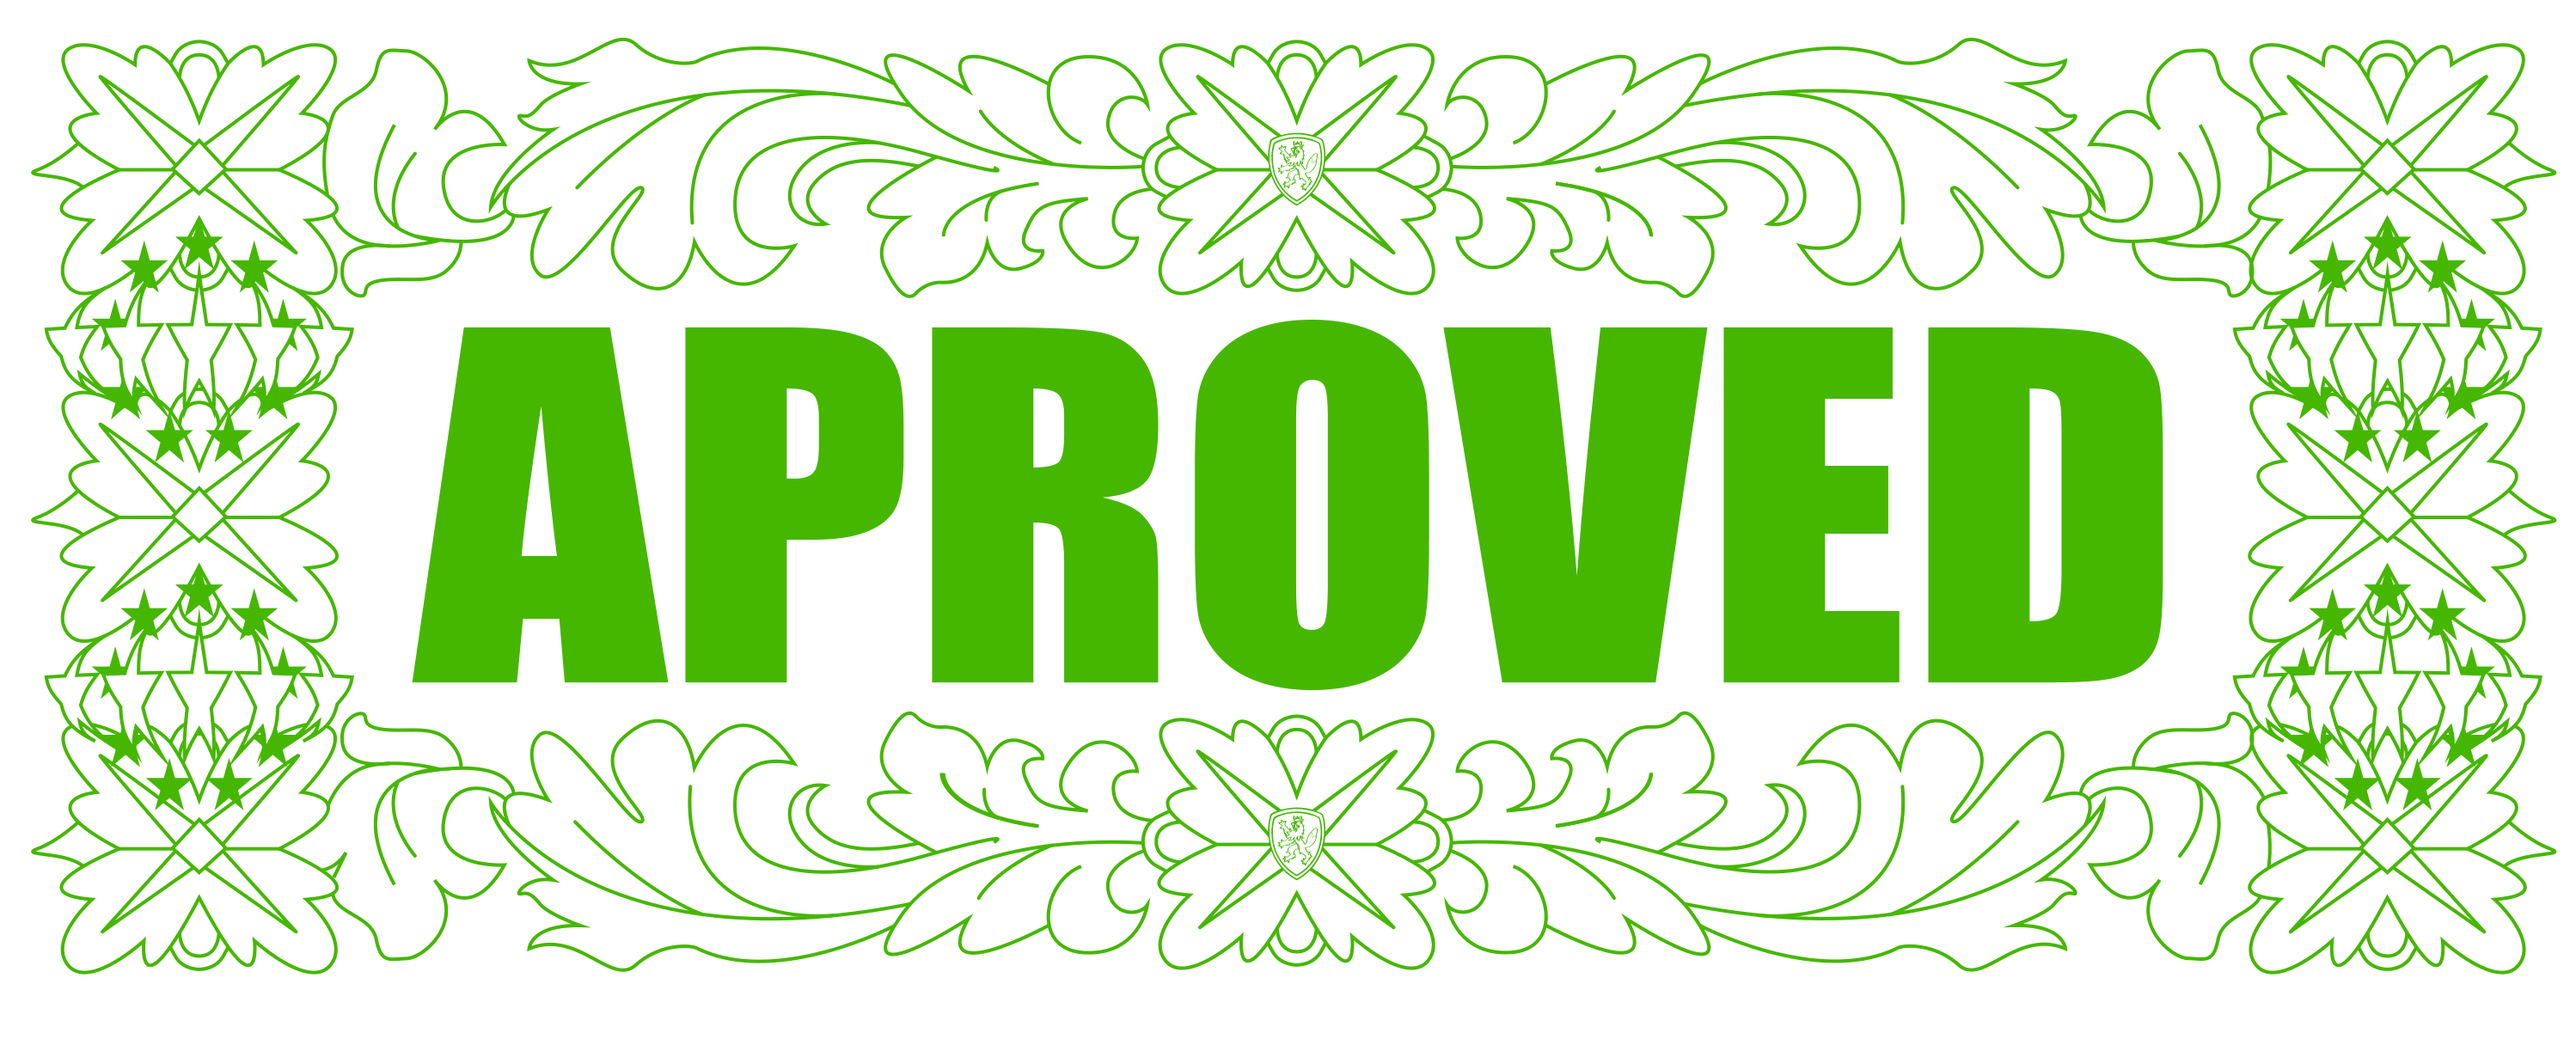
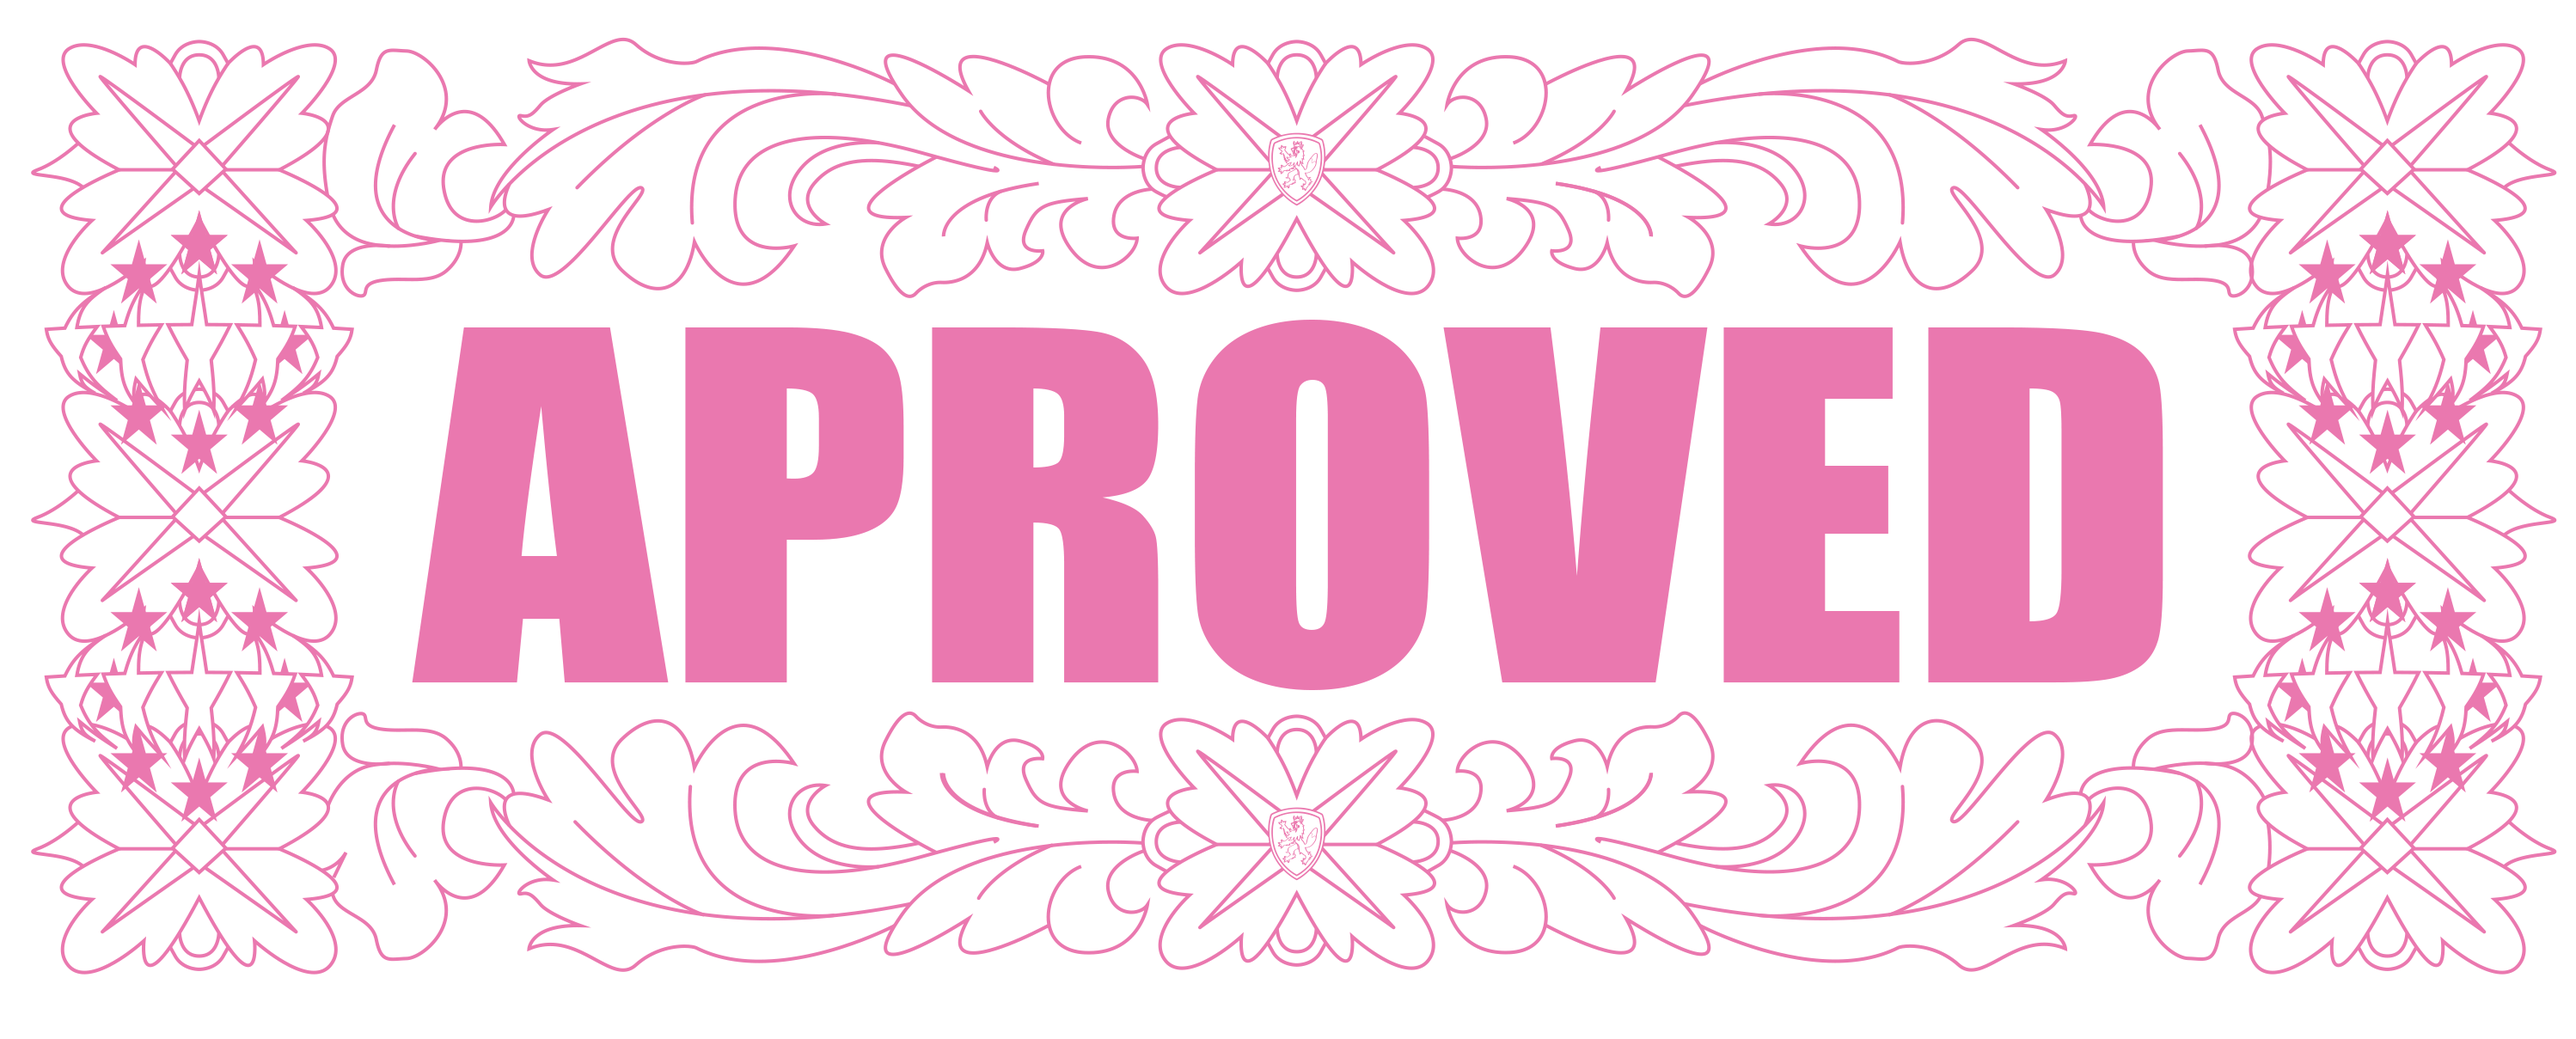
A

diff --git a/src/components/HomeHowItWorks.tsx b/src/components/HomeHowItWorks.tsx
@@ -60,36 +60,6 @@ function Arrow({
   );
 }
 
-/** Grille 2×2 compacte (mobile, cycles côte à côte). */
-function MiniCycleGrid({
-  cards,
-  order,
-}: {
-  cards: [CardDef, CardDef, CardDef, CardDef];
-  order: [number, number, number, number];
-}) {
-  const ordered = order.map((i) => cards[i]!);
-  return (
-    <div className="mt-1 grid grid-cols-2 gap-1">
-      {ordered.map((c) => (
-        <div
-          key={`${c.step}-${c.title}`}
-          className={`rounded-[6px] border border-[#F0F0F0] bg-[#FAFAFA] p-1.5 ${
-            c.highlight ? "ring-1 ring-[#F472B6]" : ""
-          }`}
-        >
-          <p className="text-[10px] font-medium uppercase tracking-wide text-[#6B6B6B]">
-            {c.step}
-          </p>
-          <p className="mt-0.5 line-clamp-3 text-[11px] font-semibold leading-tight text-[#0A0A0A]">
-            {c.title}
-          </p>
-        </div>
-      ))}
-    </div>
-  );
-}
-
 function FlowCycleGrid({
   cards,
   mobileOrder,
@@ -107,7 +77,7 @@ function FlowCycleGrid({
           <div key={`${c.step}-${c.title}-${idx}`}>
             <CycleCard {...c} />
             {idx < list.length - 1 ? (
-              <div className="flex justify-center py-1">
+              <div className="flex justify-center py-0.5">
                 <Arrow>↓</Arrow>
               </div>
             ) : null}
@@ -115,7 +85,7 @@ function FlowCycleGrid({
         ))}
       </div>
 
-      <div className="mx-auto hidden w-full max-w-md md:grid md:grid-cols-[minmax(0,1fr)_2rem_minmax(0,1fr)] md:grid-rows-3 md:gap-x-0 md:gap-y-2 lg:max-w-none">
+      <div className="mx-auto hidden w-full max-w-md md:grid md:grid-cols-[minmax(0,1fr)_2rem_minmax(0,1fr)] md:grid-rows-3 md:gap-x-0 md:gap-y-1.5 lg:max-w-none">
         <CycleCard {...tl} />
         <Arrow className="self-center justify-center">→</Arrow>
         <CycleCard {...tr} />
@@ -163,7 +133,7 @@ function ColumnTitle({
 
 function DividerLabel({ children }: { children: ReactNode }) {
   return (
-    <div className={`relative ${shell} py-2`}>
+    <div className={`relative ${shell} py-1`}>
       <div
         className="absolute inset-x-0 top-1/2 h-px -translate-y-1/2 bg-[#F0F0F0]"
         aria-hidden
@@ -205,27 +175,26 @@ export function HomeHowItWorks() {
 
   return (
     <section
-      className="overflow-hidden rounded-[8px] border border-[#F0F0F0] bg-white px-4 py-6 sm:px-8 sm:py-12"
+      className="overflow-hidden rounded-[8px] border border-[#F0F0F0] bg-white px-4 py-5 sm:px-6 sm:py-8 md:py-10"
       aria-labelledby="rs-home-how-parcours rs-home-how-cycle"
     >
-      <p className="mb-2 text-center text-[13px] font-medium uppercase tracking-[0.12em] text-[#6B6B6B] md:hidden">
+      <p className="mb-3 text-center text-[13px] font-medium uppercase tracking-[0.12em] text-[#6B6B6B] md:hidden">
         Comment ça marche
       </p>
 
-      <div className="mx-auto max-h-[340px] min-h-0 overflow-y-auto md:max-h-none md:overflow-visible">
-        <div className={`${shell} grid grid-cols-2 gap-2 md:hidden`}>
-          <div className="min-w-0">
-            <p className="text-[11px] font-semibold text-[#0A0A0A]">Ton parcours</p>
-            <MiniCycleGrid cards={parcoursCards} order={[0, 1, 3, 2]} />
-          </div>
-          <div className="min-w-0">
-            <p className="text-[11px] font-semibold text-[#0A0A0A]">Le cycle RS</p>
-            <MiniCycleGrid cards={cycleCards} order={[0, 1, 2, 3]} />
-          </div>
+      <div className={`${shell} flex flex-col gap-5 md:hidden`}>
+        <div>
+          <p className="mb-2 text-sm font-semibold text-[#0A0A0A]">Ton parcours</p>
+          <FlowCycleGrid cards={parcoursCards} mobileOrder={[0, 1, 3, 2]} />
         </div>
+        <div className="border-t border-[#F0F0F0] pt-5">
+          <p className="mb-2 text-sm font-semibold text-[#0A0A0A]">Le cycle RS</p>
+          <FlowCycleGrid cards={cycleCards} mobileOrder={[0, 1, 2, 3]} />
+        </div>
+      </div>
 
-        <div className={`${shell} hidden md:flex md:flex-col md:gap-10 lg:flex-row lg:items-start`}>
-          <div className="min-w-0 flex-1 space-y-6 lg:space-y-8">
+      <div className={`${shell} mt-0 hidden md:flex md:flex-col md:gap-5 lg:mt-0 lg:flex-row lg:items-start lg:gap-8`}>
+          <div className="min-w-0 flex-1 space-y-4 lg:space-y-5">
             <ColumnTitle
               kicker="Comment ça marche"
               title="Ton parcours"
@@ -256,7 +225,7 @@ export function HomeHowItWorks() {
             aria-hidden
           />
 
-          <div className="min-w-0 flex-1 space-y-6 lg:space-y-8">
+          <div className="min-w-0 flex-1 space-y-4 lg:space-y-5">
             <div className="lg:hidden">
               <DividerLabel>Le recrutement</DividerLabel>
             </div>
@@ -265,13 +234,12 @@ export function HomeHowItWorks() {
             <FlowCycleGrid cards={cycleCards} mobileOrder={[0, 1, 2, 3]} />
           </div>
         </div>
-      </div>
 
-      <div className={`${shell} mt-6 hidden lg:block`}>
+      <div className={`${shell} mt-4 hidden lg:block`}>
         <DividerLabel>Le recrutement</DividerLabel>
       </div>
 
-      <div className={`${shell} mt-6 md:mt-8 lg:mt-10`}>
+      <div className={`${shell} mt-5 md:mt-6 lg:mt-7`}>
         <a
           href="/depot"
           className="rs-btn rs-btn--primary flex w-full flex-col items-center gap-0.5 rounded-[6px] py-4 text-center no-underline hover:no-underline sm:py-5"

diff --git a/app/rs-shopify-header-mobile.css b/app/rs-shopify-header-mobile.css
@@ -86,13 +86,13 @@
     align-items: center;
     justify-content: space-between;
     gap: 10px;
-    min-height: 56px;
-    height: 56px;
-    max-height: 56px;
+    min-height: 64px;
+    height: auto;
+    max-height: none;
     box-sizing: border-box;
     width: 100%;
     margin: 0;
-    padding: 0 0;
+    padding: 6px 0;
     border: none;
     border-bottom: 1px solid #f0f0f0;
     background: #ffffff;
@@ -110,10 +110,10 @@
 
   .rs-header-mobile-bar__logo {
     display: block;
-    width: 36px;
-    height: 36px;
-    max-width: 36px;
-    max-height: 36px;
+    width: 52px;
+    height: 52px;
+    max-width: 52px;
+    max-height: 52px;
     object-fit: contain;
     flex-shrink: 0;
   }
@@ -140,35 +140,53 @@
     height: 44px;
     margin: 0;
     padding: 0;
-    border: none;
-    background: transparent;
+    border: 1px solid #f0f0f0;
+    background: #fafafa;
     cursor: pointer;
     color: #0a0a0a;
-    border-radius: 8px;
+    border-radius: 10px;
+    box-shadow: 0 1px 0 rgba(255, 255, 255, 0.9) inset;
+    transition:
+      background 0.15s ease,
+      border-color 0.15s ease,
+      box-shadow 0.15s ease;
+  }
+
+  .rs-header-mobile-bar__menu-btn:hover {
+    background: #ffffff;
+    border-color: #e5e5e5;
+    box-shadow: 0 1px 2px rgba(10, 10, 10, 0.06);
+  }
+
+  .rs-header-mobile-bar__menu-btn:active {
+    background: #f5f5f5;
+    transform: scale(0.98);
   }
 
   .rs-header-mobile-bar__menu-btn:focus-visible {
-    outline: 2px solid #0a0a0a;
+    outline: 2px solid #f472b6;
     outline-offset: 2px;
   }
 
   .rs-header-mobile-bar__burger {
     display: flex;
     flex-direction: column;
-    justify-content: space-between;
-    align-items: flex-start;
-    width: 24px;
-    height: 24px;
+    justify-content: center;
+    align-items: center;
+    gap: 5px;
+    width: 22px;
+    height: 22px;
     flex-shrink: 0;
   }
 
   .rs-header-mobile-bar__burger-line {
     display: block;
-    width: 24px;
+    width: 18px;
     height: 2px;
     background: #0a0a0a;
-    border-radius: 0;
+    border-radius: 999px;
     flex-shrink: 0;
+    opacity: 0.92;
   }
 
   .rs-header-drawer[hidden] {

diff --git a/app/profils/page.tsx b/app/profils/page.tsx
@@ -158,7 +158,6 @@ export default function ProfilsPage() {
           {ranked.map((p) => {
             const handle = p.handle.replace(/^@/, "");
             const rank = rankById.get(p.id) ?? 0;
-            const likes = Number(p.likes ?? 0);
             return (
               <li key={p.id} className="min-w-0">
                 <article className="flex h-full min-w-0 flex-col rounded-[8px] border border-[#F0F0F0] bg-[#FAFAFA] p-4">
@@ -174,8 +173,7 @@ export default function ProfilsPage() {
                     {p.city ?? "—"}
                   </p>
                   <p className="mt-2 text-sm font-medium text-[#0A0A0A]">
-                    <span className="font-bold text-[#F472B6]">{likes}</span>{" "}
-                    likes · rang{" "}
+                    Rang{" "}
                     <span className="font-bold text-[#F472B6]">#{rank}</span>
                   </p>
                   {p.portfolio_url ? (

diff --git a/app/layout.tsx b/app/layout.tsx
@@ -80,8 +80,8 @@ export default function RootLayout({
             className="rs-header-body"
             style={
               {
-                ["--rs-header-logo-col"]: "44px",
-                ["--rs-header-logo-inset"]: "12px",
+                ["--rs-header-logo-col"]: "96px",
+                ["--rs-header-logo-inset"]: "10px",
               } as CSSProperties
             }
           >

diff --git a/app/swipe/swipe-stamps.css b/app/swipe/swipe-stamps.css
@@ -15,7 +15,7 @@
 
 html[data-rs-swipe="1"] {
   --rs-swipe-bottom-chrome: calc(120px + env(safe-area-inset-bottom, 0px));
-  --rs-swipe-top-offset: calc(56px + env(safe-area-inset-top, 0px));
+  --rs-swipe-top-offset: calc(72px + env(safe-area-inset-top, 0px));
 }
 
 html[data-rs-swipe="1"] body.rs-portal-body {

diff --git a/app/rs-modern-portal.css b/app/rs-modern-portal.css
@@ -63,7 +63,7 @@ main.rs-portal-main {
   letter-spacing: 0.04em;
 }
 
-/* Barre principale ~56px, logo compact */
+/* Barre principale desktop ~56px ; logo tuile piloté par --rs-header-logo-col (layout) */
 .header-wrap .rs-header-body {
   border-bottom: none;
 }

diff --git a/app/page.tsx b/app/page.tsx
@@ -42,7 +42,7 @@ export default function Home() {
         </div>
       </section>
 
-      <div className="mt-4">
+      <div className="mt-2 sm:mt-3">
         <HomeHowItWorks />
       </div>
 
